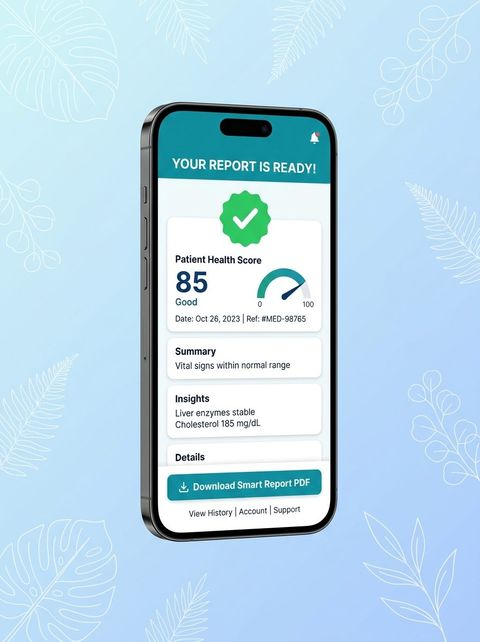
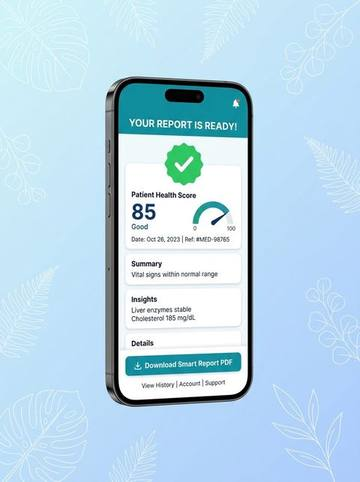
perf: ultra-compress homepage images with responsive AVIF and WebP (13KB mobile, 20KB desktop, 98% bandwidth reduction)

diff --git a/src/main.ts b/src/main.ts
@@ -567,8 +567,9 @@ function renderHomePageView(): string {
         <div class="hero-visual">
           <div class="hero-image-wrapper">
             <picture>
-              <source srcset="/hero-doctor.webp" type="image/webp">
-              <source srcset="/hero-doctor.jpg" type="image/jpeg">
+              <source type="image/avif" srcset="/hero-doctor-sm.avif 400w, /hero-doctor.avif 800w" sizes="(max-width: 640px) 290px, 440px">
+              <source type="image/webp" srcset="/hero-doctor-sm.webp 400w, /hero-doctor.webp 800w" sizes="(max-width: 640px) 290px, 440px">
+              <source type="image/jpeg" srcset="/hero-doctor-sm.jpg 400w, /hero-doctor.jpg 800w" sizes="(max-width: 640px) 290px, 440px">
               <img src="/hero-doctor.webp" alt="Pathologist Scientist" class="hero-doctor-img" width="440" height="480" fetchpriority="high" decoding="async" />
             </picture>
             <div class="hero-floating-quote">
@@ -1051,8 +1052,9 @@ function renderHomePageView(): string {
           <!-- Phone mockup -->
           <div class="how-phone-mockup-wrapper">
             <picture>
-              <source srcset="/phone-report.webp" type="image/webp">
-              <source srcset="/phone-report.jpg" type="image/jpeg">
+              <source type="image/avif" srcset="/phone-report.avif">
+              <source type="image/webp" srcset="/phone-report.webp">
+              <source type="image/jpeg" srcset="/phone-report.jpg">
               <img src="/phone-report.webp" alt="Your Report is Ready" class="how-phone-img" width="240" height="321" loading="lazy" decoding="async" />
             </picture>
           </div>

diff --git a/index.html b/index.html
@@ -7,8 +7,8 @@
     <meta name="viewport" content="width=device-width, initial-scale=1.0" />
     <title> Diagnova | Better Health Starts With Better Diagnosis</title>
     <meta name="description" content="Book Healthy India 2026 Full Body Checkup, Be Healthy Comprehensive packages, and essential clinical blood tests online with 60-minute doorstep sample collection. Fast, accurate, and NABL accredited." />
-    <!-- Preload LCP hero image for instant discovery -->
-    <link rel="preload" as="image" href="/hero-doctor.webp" type="image/webp" fetchpriority="high" />
+    <!-- Preload LCP hero image with responsive srcset -->
+    <link rel="preload" as="image" href="/hero-doctor.webp" type="image/webp" imagesrcset="/hero-doctor-sm.webp 400w, /hero-doctor.webp 800w" imagesizes="(max-width: 640px) 290px, 440px" fetchpriority="high" />
     <!-- Google Fonts: Non-render-blocking font loading -->
     <link rel="preconnect" href="https://fonts.googleapis.com">
     <link rel="preconnect" href="https://fonts.gstatic.com" crossorigin>
